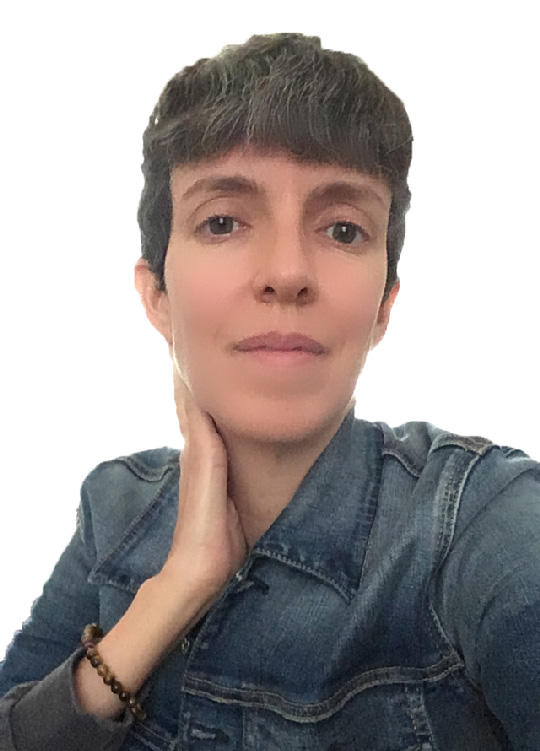
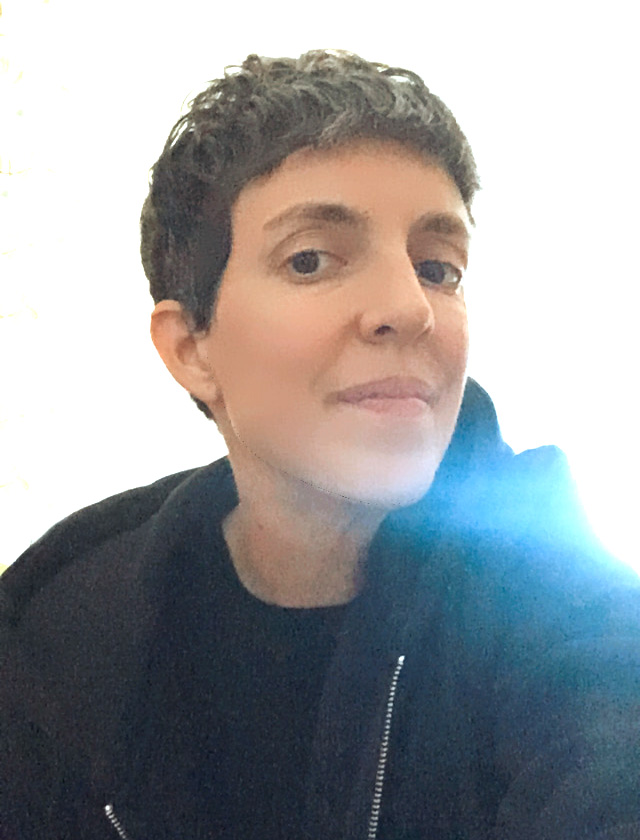
updated bio pic

diff --git a/about.html b/about.html
@@ -23,7 +23,7 @@
   <div class="container">
     <div class="row">
       <div class='bio large-6 small-10 small-centered columns'>
-        <img class="img-round" src="img/selfie.jpg" alt="image of emily smiling, wearing a black shirt that reads, ESP and your pet, seated in front of an ocean with an ominous typhoon looming in the background">
+        <img class="img-round" src="img/selfie.jpg" alt="three-quarter view of emily,  wearing a black hoodie, black shirt, and super cute haircut!">
 
         <p>Emily Martinez (they/she) is a 1st generation Cuban immigrant/ refugee, raised by Miami and living in Los Angeles since 2012. They are a new media artist and serial collaborator who believes in the tactical misuse of technology. Their most
           recent
